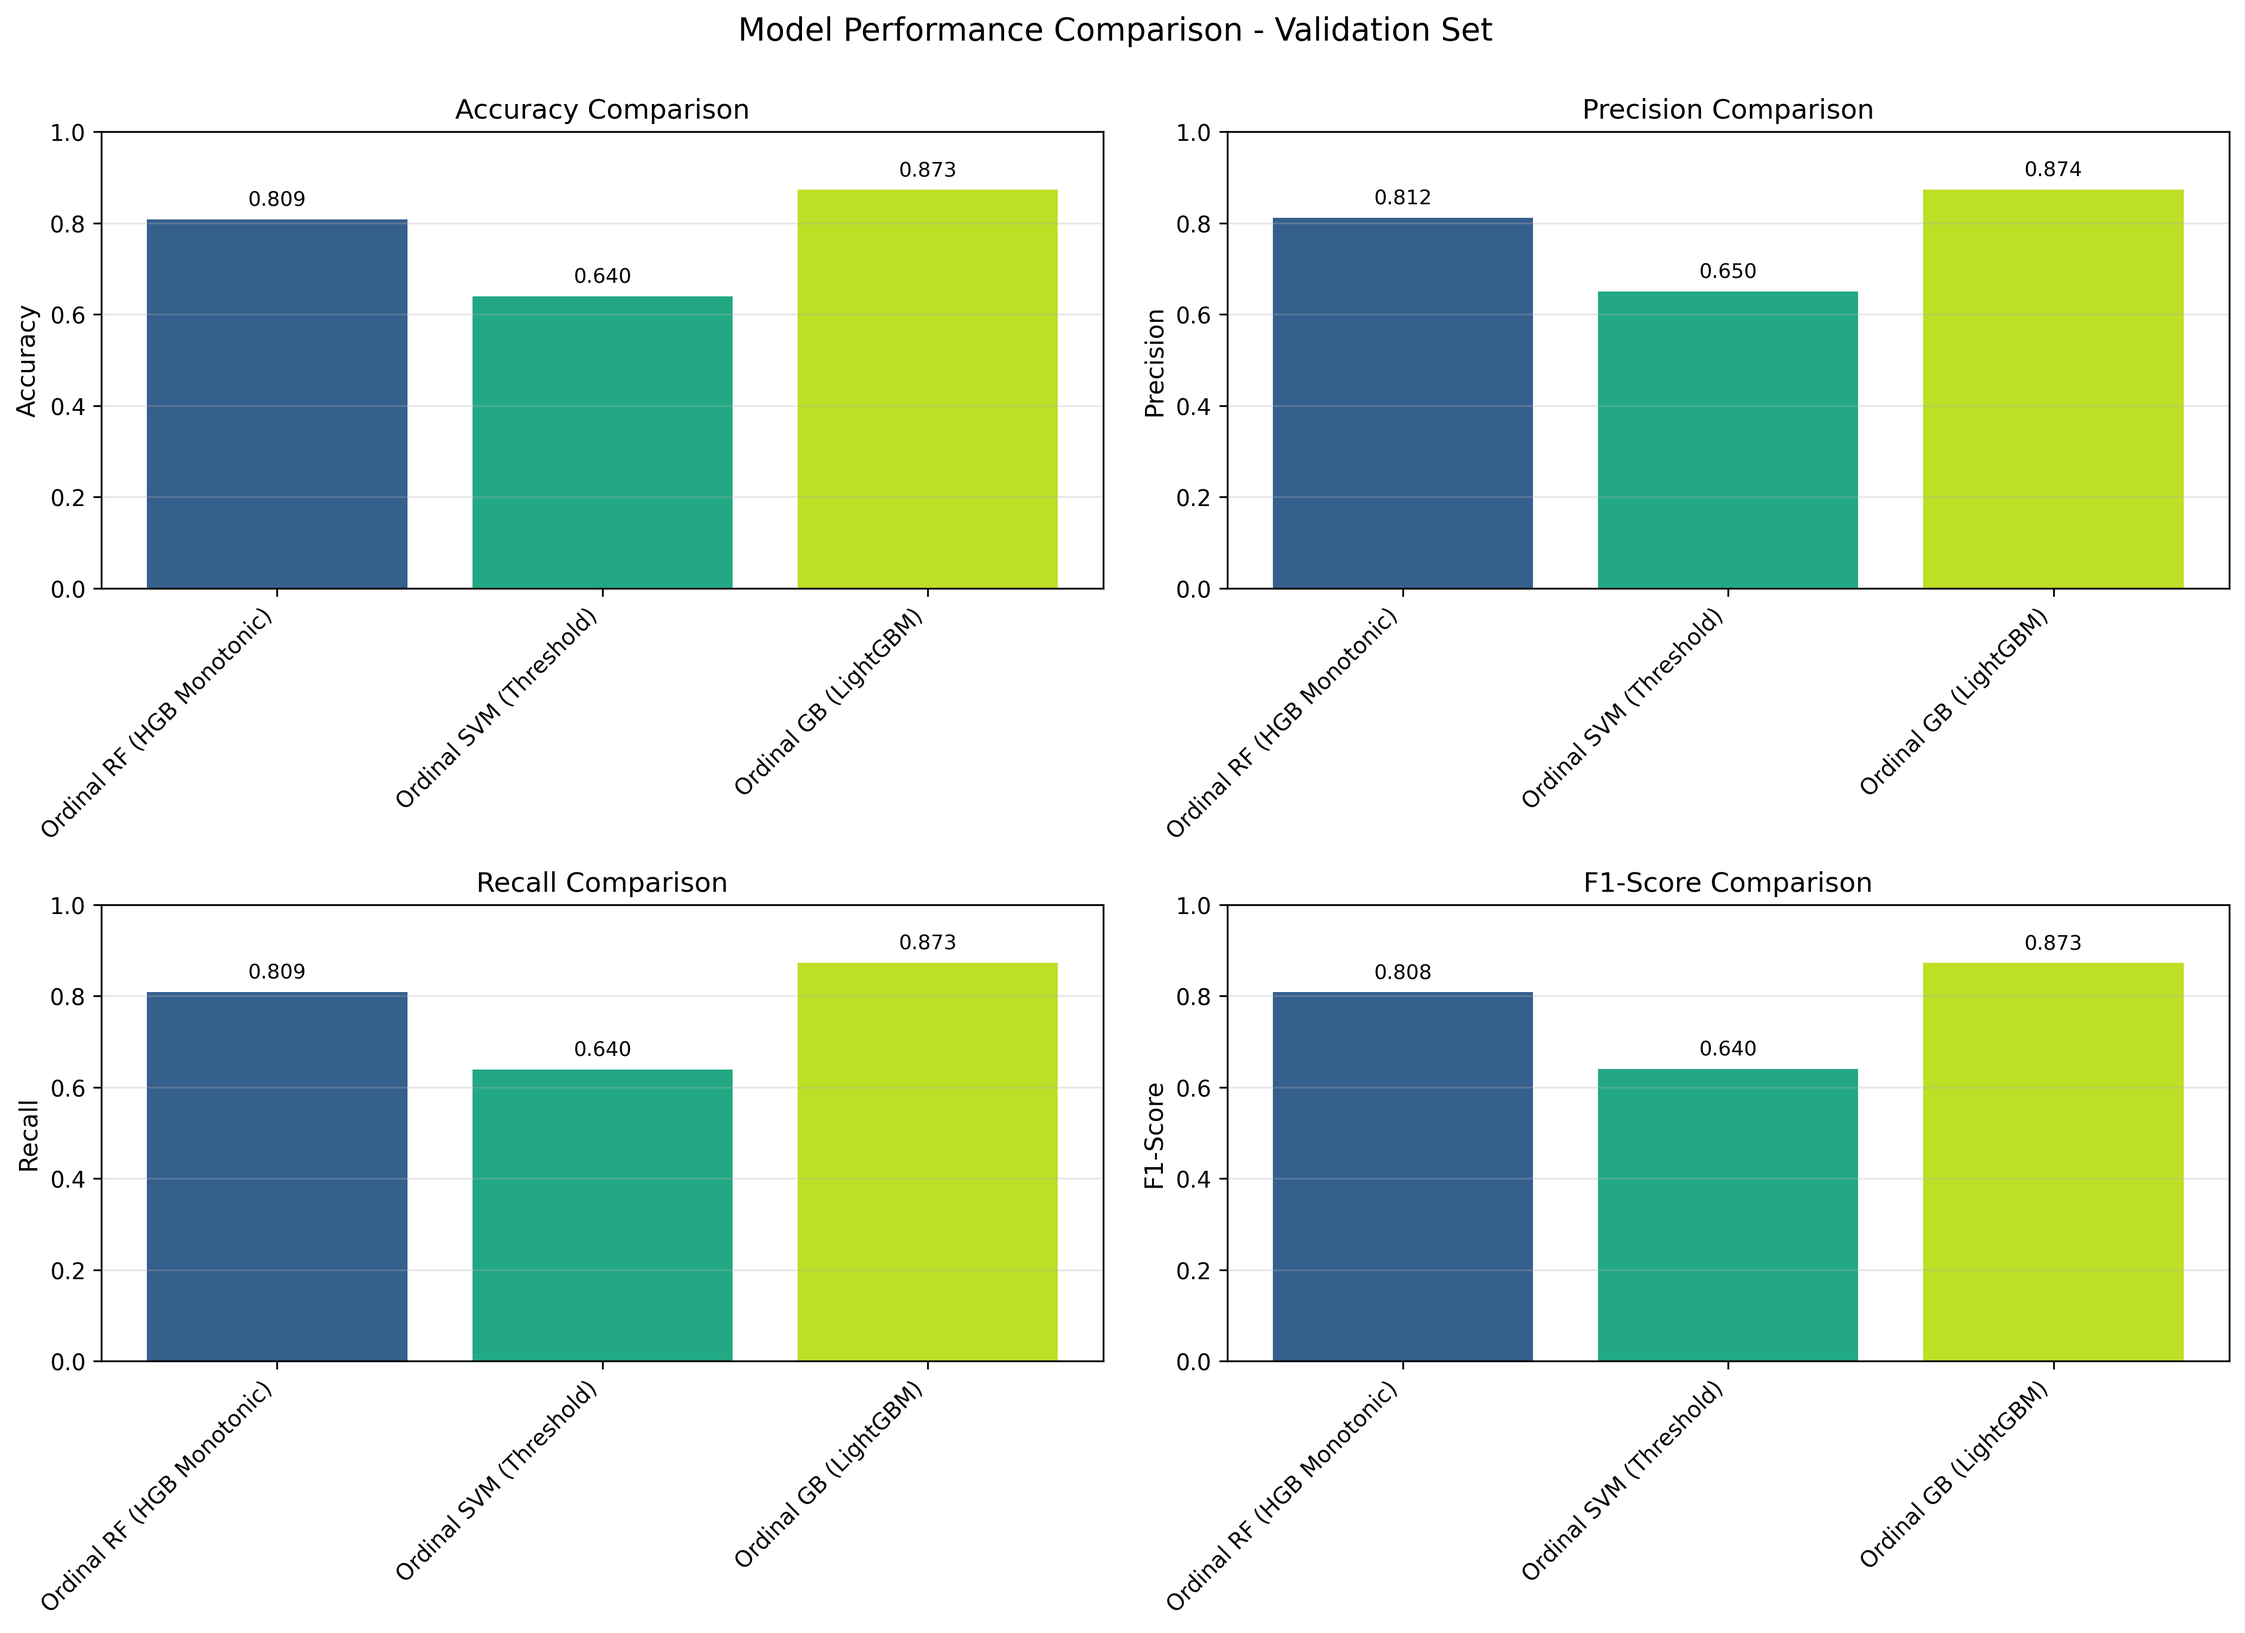
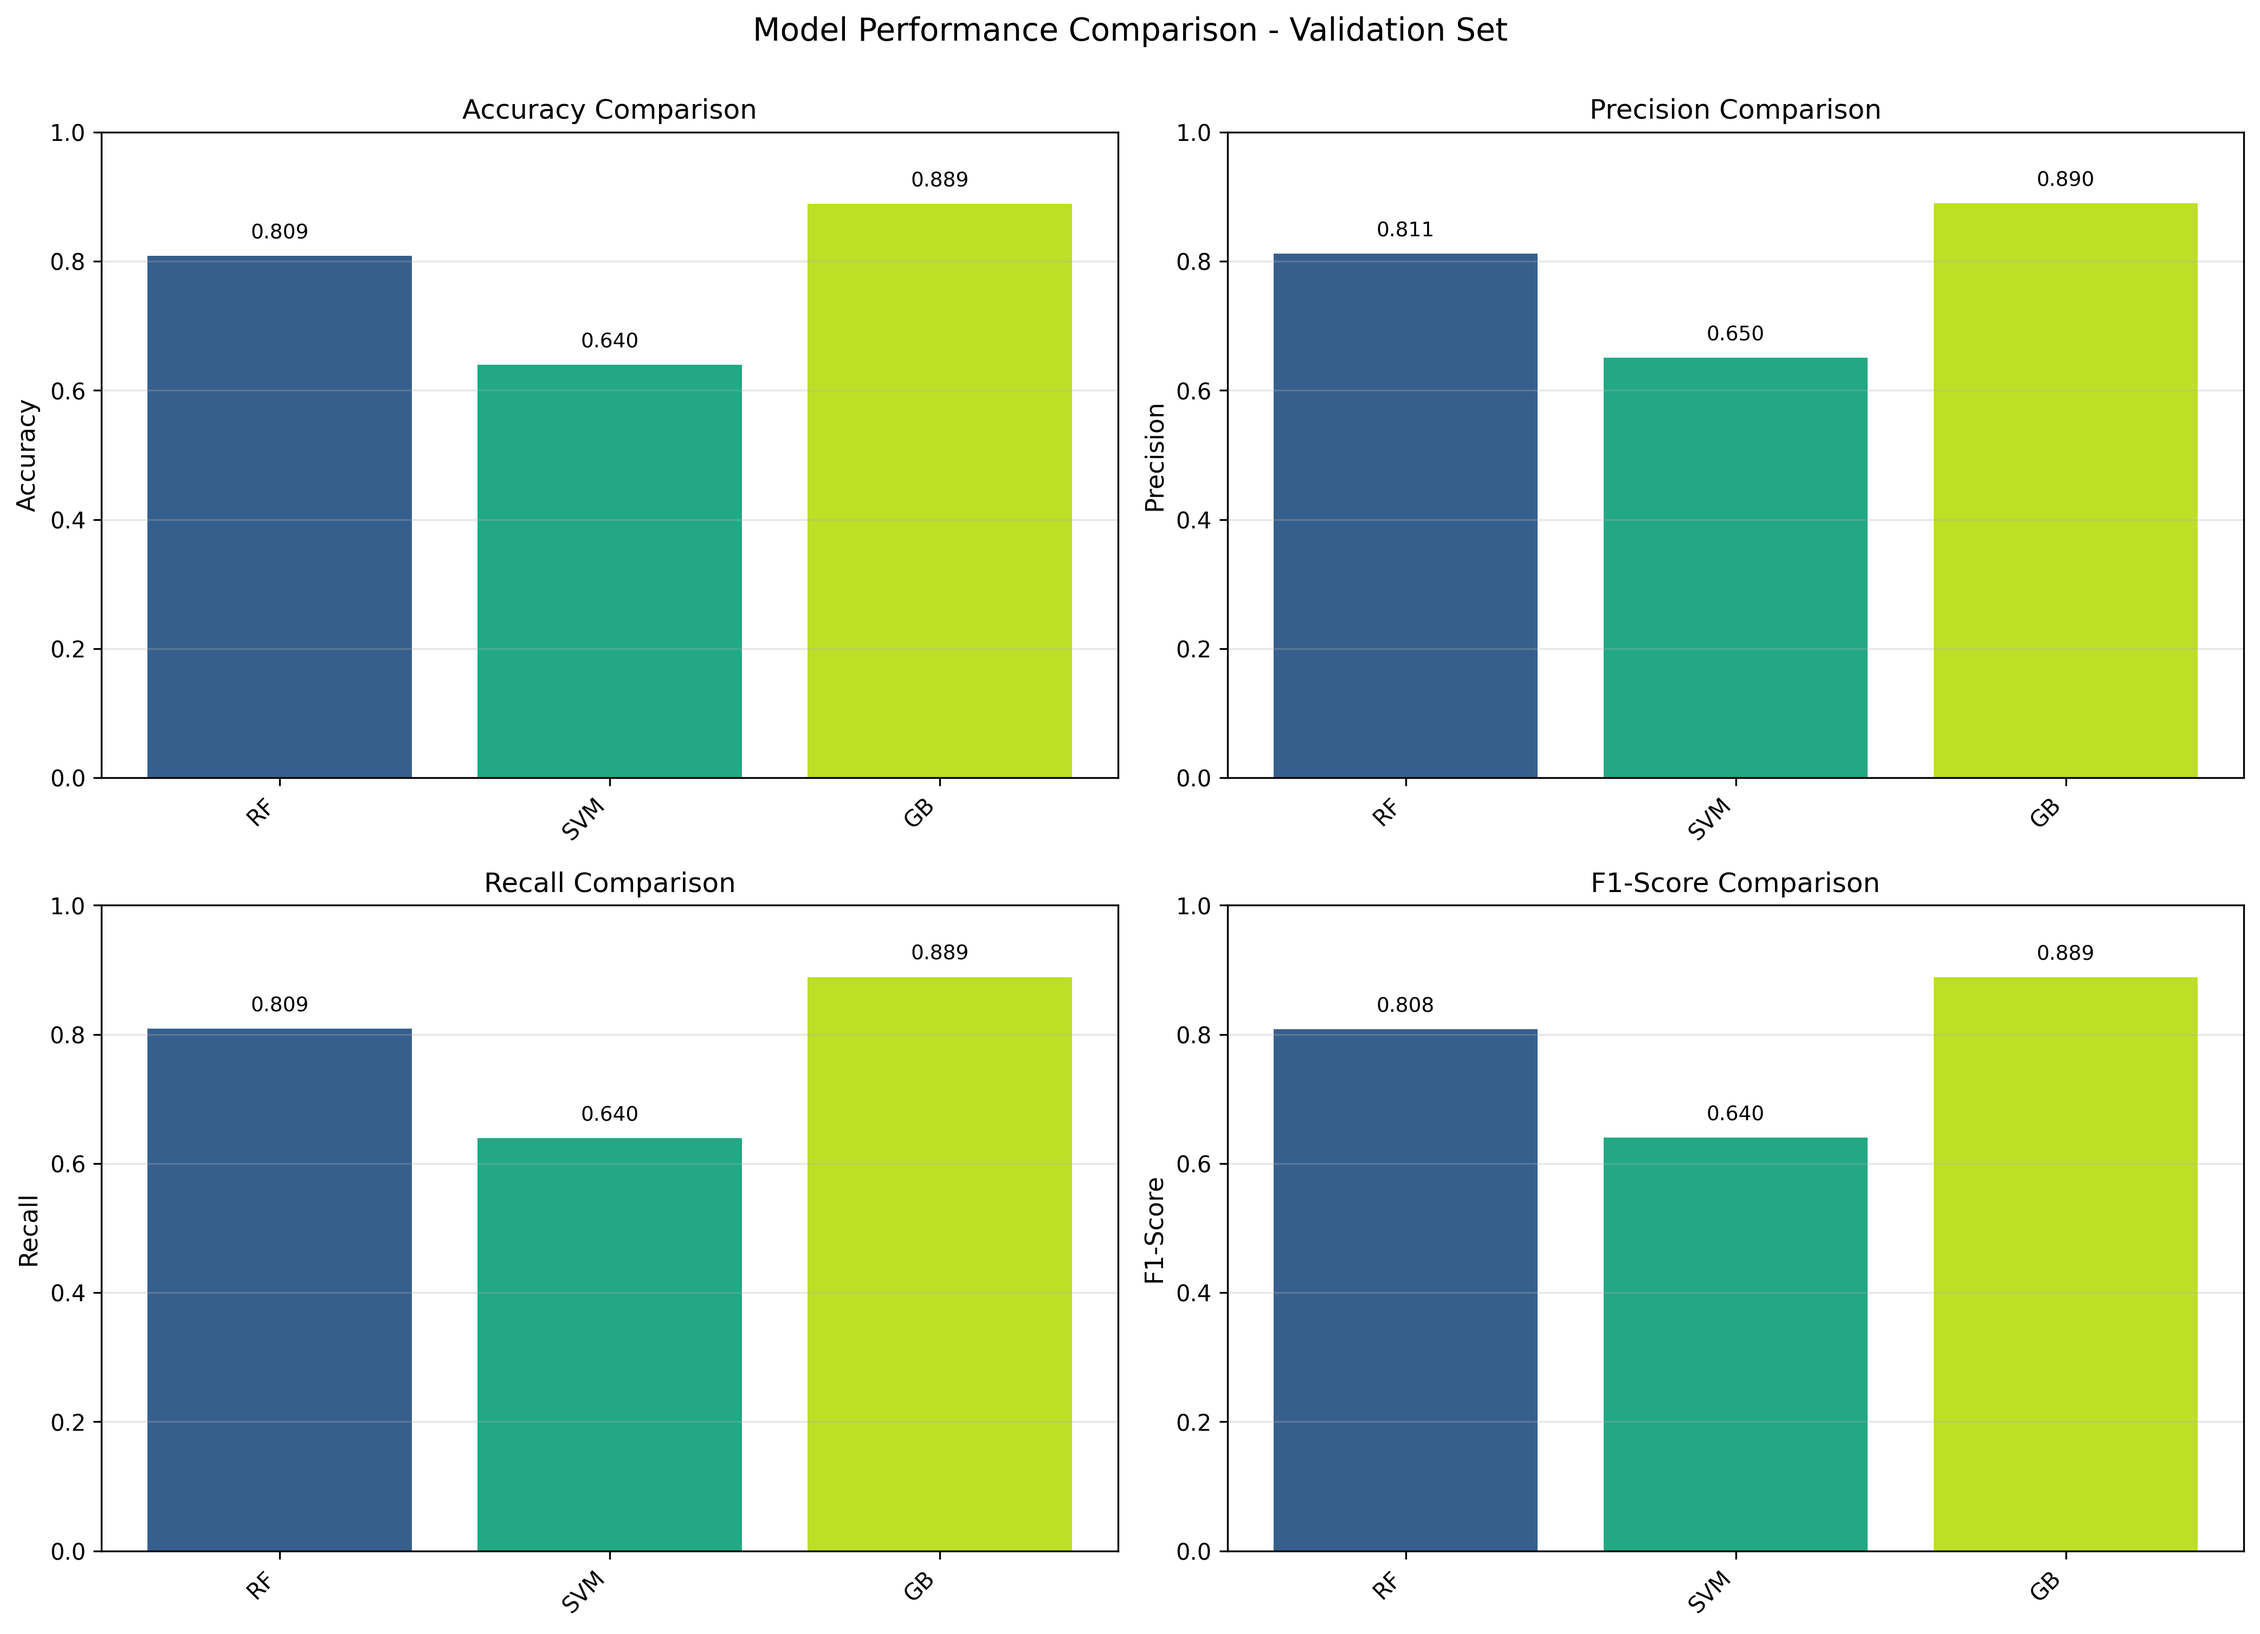
finished classifier models

diff --git a/code/04_train_gb_lightgbm.py b/code/04_train_gb_lightgbm.py
@@ -26,13 +26,13 @@ def main():
     parser.add_argument(
         '--n_iterations',
         type=int,
-        default=1000,
+        default=5000,
         help='Number of boosting iterations (default: 5000)'
     )
     parser.add_argument(
         '--learning_rate',
         type=float,
-        default=0.02,
+        default=0.01,
         help='Learning rate (default: 0.02, lower for better generalization)'
     )
     parser.add_argument(
@@ -44,19 +44,19 @@ def main():
     parser.add_argument(
         '--max_depth',
         type=int,
-        default=20,
+        default=8,
         help='Maximum tree depth (default: 8)'
     )
     parser.add_argument(
         '--feature_fraction',
         type=float,
-        default=0.8,
+        default=0.5,
         help='Fraction of features per iteration (default: 0.8)'
     )
     parser.add_argument(
         '--bagging_fraction',
         type=float,
-        default=0.8,
+        default=0.5,
         help='Fraction of data per iteration (default: 0.8)'
     )
     parser.add_argument(
@@ -164,18 +164,18 @@ def main():
         print(f"Train-Val gap:           {gap:.4f} ({gap*100:.2f}%)")
         
         if gap > 0.15:
-            print("\n⚠  High train-val gap suggests overfitting!")
+            print("\n  High train-val gap suggests overfitting!")
             print("   Recommendations:")
             print("   - Increase regularization: --reg_alpha 0.5 --reg_lambda 0.5")
             print("   - Lower learning rate: --learning_rate 0.01")
             print("   - Reduce complexity: --num_leaves 31 --max_depth 6")
         elif gap > 0.10:
-            print("\n⚡ Moderate overfitting detected")
+            print("\n Moderate overfitting detected")
             print("   Try: --reg_alpha 0.3 --reg_lambda 0.3")
         elif val_acc > 0.85:
-            print("\n✅ Excellent validation performance!")
+            print("\n Excellent validation performance!")
         else:
-            print(f"\n📊 Validation: {val_acc*100:.1f}% - Gap: {gap*100:.1f}%")
+            print(f"\n Validation: {val_acc*100:.1f}% - Gap: {gap*100:.1f}%")
         
     except FileNotFoundError:
         print("Validation data not found. Skipping validation evaluation.")

diff --git a/code/model_training/ordinal_svm_threshold.py b/code/model_training/ordinal_svm_threshold.py
@@ -283,6 +283,49 @@ class OrdinalSVMClassifier:
         """
         probas = self.predict_proba(X)
         return decode_svm_predictions(probas)
+    
+    def predict_proba_classes(self, X: np.ndarray) -> np.ndarray:
+        """
+        Predict class probabilities (for calibration/evaluation).
+        
+        Converts threshold probabilities P(y > k) to class probabilities P(y = c).
+        
+        Parameters:
+        -----------
+        X : np.ndarray
+            Features to predict, shape (n_samples, n_features).
+        
+        Returns:
+        --------
+        class_probas : np.ndarray
+            Class probabilities, shape (n_samples, 5) for classes 0-4.
+        """
+        threshold_probas = self.predict_proba(X)
+        n_samples = threshold_probas.shape[0]
+        n_classes = 5
+        
+        class_probas = np.zeros((n_samples, n_classes))
+        
+        # Convert threshold probabilities to class probabilities
+        # P(y = 0) = 1 - P(y > 0)
+        # P(y = 1) = P(y > 0) - P(y > 1)
+        # P(y = 2) = P(y > 1) - P(y > 2)
+        # P(y = 3) = P(y > 2) - P(y > 3)
+        # P(y = 4) = P(y > 3)
+        
+        for i in range(n_samples):
+            # Add padding for easier indexing
+            p_greater = np.concatenate([[1.0], threshold_probas[i], [0.0]])
+            
+            for c in range(n_classes):
+                class_probas[i, c] = p_greater[c] - p_greater[c + 1]
+        
+        # Normalize to ensure probabilities sum to 1 (handle numerical issues)
+        class_probas = np.maximum(class_probas, 0)  # Ensure non-negative
+        row_sums = class_probas.sum(axis=1, keepdims=True)
+        class_probas = class_probas / (row_sums + 1e-10)
+        
+        return class_probas
 
 
 def train_threshold_svm(

diff --git a/code/04_train_rf_mord.py b/code/04_train_rf_mord.py
@@ -72,7 +72,7 @@ if __name__ == '__main__':
     p.add_argument('--train', default='features/combined/combined_train.joblib', help='Path to training features')
     p.add_argument('--labels', default='features/combined/labels_train.joblib', help='Path to integer labels')
     p.add_argument('--out', default='features/model_rf_mord.joblib', help='Output model path')
-    p.add_argument('--n_estimators', type=int, default=5000, help='Number of trees (default: 500)')
+    p.add_argument('--n_estimators', type=int, default=1000, help='Number of trees (default: 500)')
     p.add_argument('--max_depth', type=int, default=50, help='Max tree depth (default: 6)')
     p.add_argument('--min_samples_leaf', type=int, default=20, help='Min samples per leaf (default: 8)')
     p.add_argument('--random_state', type=int, default=42)

diff --git a/code/confidence_estimation/temperature_scaling.py b/code/confidence_estimation/temperature_scaling.py
@@ -81,6 +81,13 @@ def get_logits_from_model(model, X):
     else:
         classifier = model
     
+    # Special handling for OrdinalSVMClassifier (threshold-based)
+    if hasattr(classifier, 'predict_proba_classes'):
+        # This is the threshold-based SVM - use class probabilities
+        probs = classifier.predict_proba_classes(X)
+        logits = np.log(probs + 1e-10)  # Convert to log-space
+        return logits
+    
     # Get decision function (logits)
     if hasattr(classifier, 'decision_function'):
         logits = classifier.decision_function(X)

diff --git a/code/06_temperature_scaling.py b/code/06_temperature_scaling.py
@@ -58,9 +58,9 @@ def main():
     
     # Models to calibrate
     models_to_calibrate = [
-        ('features/model_svm.joblib', 'Integer SVM'),
-        ('features/model_rf.joblib', 'Integer Random Forest'),
-        ('features/model_gb.joblib', 'Gradient Boosting'),
+        ('features/model_rf_mord.joblib', 'Ordinal RF (HGB Monotonic)'),
+        ('features/model_svm_ordinal.joblib', 'Ordinal SVM (Threshold)'),
+        ('features/model_gb_lightgbm.joblib', 'Ordinal GB (LightGBM)'),
     ]
     
     results = {}

diff --git a/code/05_evaluate_models.py b/code/05_evaluate_models.py
@@ -204,9 +204,9 @@ def main():
     
     # Models to evaluate
     models_to_evaluate = [
-        ('features/model_rf_mord.joblib', 'Ordinal RF (HGB Monotonic)'),
-        ('features/model_svm_ordinal.joblib', 'Ordinal SVM (Threshold)'),
-        ('features/model_gb_lightgbm.joblib', 'Ordinal GB (LightGBM)'),
+        ('features/model_rf_mord.joblib', 'RF'),
+        ('features/model_svm_ordinal.joblib', 'SVM'),
+        ('features/model_gb_lightgbm.joblib', 'GB'),
 
     ]
     

diff --git a/code/04_train_svm.py b/code/04_train_svm.py
@@ -81,7 +81,7 @@ def main():
     parser.add_argument(
         '--max_iter',
         type=int,
-        default=500,
+        default=2000,
         help='Maximum iterations for SVM solver, -1 for no limit (default: 500)'
     )
     
